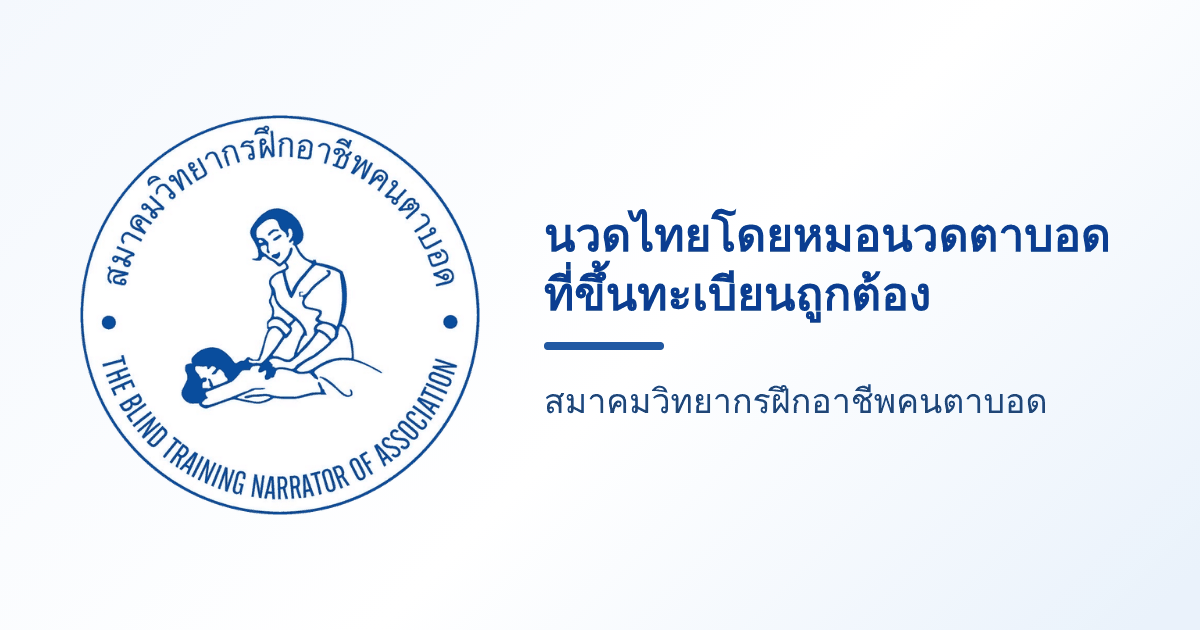
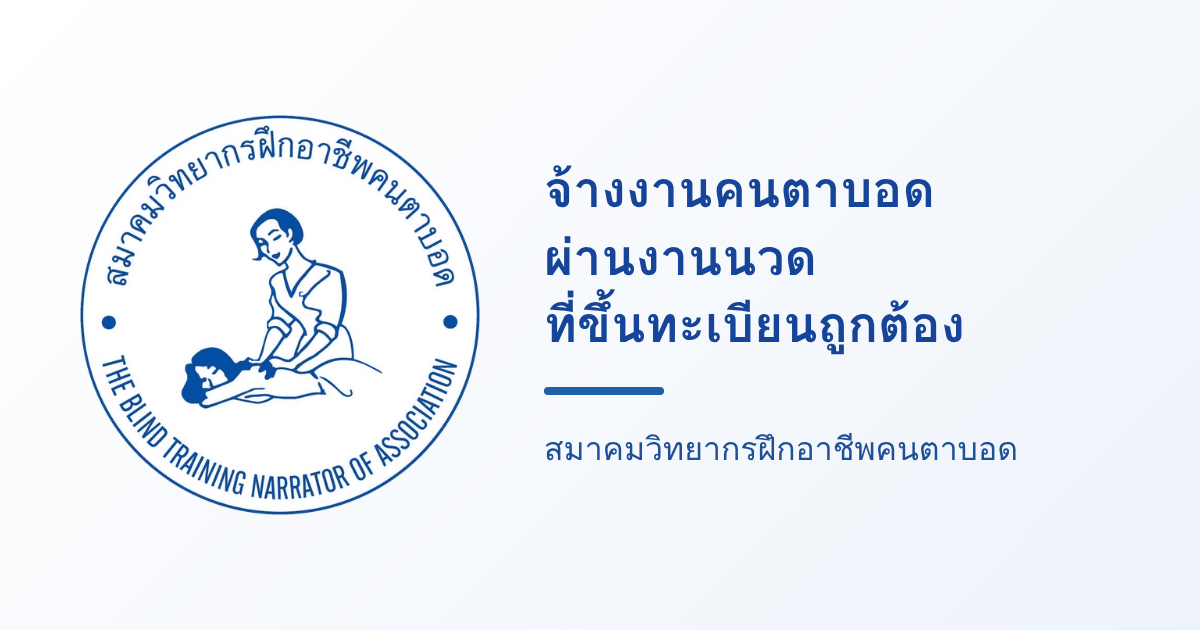
เว็บประชาสัมพันธ์: ข้อความสำรอง/รูปแชร์ตามแนวจ้างงาน, ผู้เขียนบทความสำหรับ Google, ลบโค้ดที่ไม่ใช้
- index.html: ชื่อหน้า/คำอธิบาย/og สำรองตรงกับหน้าแรก, คำใต้โลโก้ "จ้างงานคนตาบอดผ่านงานนวด"
- og-share.png ใหม่ (จ้างงานคนตาบอดผ่านงานนวด ที่ขึ้นทะเบียนถูกต้อง)
- /company/: ลบบรรทัดหมอนวดประจำลา
- Article/NewsArticle มี author = สมาคม
- ลบ CSS .note, imgUrl ซ้ำใน meta.js, ค่าส่งออกที่ไม่ใช้ใน views.js
- t_site_fn.js เพิ่ม 5 ข้อ

Claude-Session: https://claude.ai/code/session_015ijBJwPFPXqfdZhSeFH3Df

Changed region(s): [[0.4317, 0.2714, 0.925, 0.573], [0.4317, 0.6032, 0.8633, 0.6635], [0.4317, 0.6937, 0.8633, 0.754]]

diff --git a/tests/t_site_fn.js b/tests/t_site_fn.js
@@ -41,10 +41,14 @@ let L=ld(h);ok('home: Organization data = association site bna.or.th (sameAs thi
 ok('home: nav marks หน้าแรก',h.includes('data-k="home" aria-current="page">'));
 ok('footer: contact filled in order phone, email, hours',/<p id="cPhone">โทร <a href="tel:0989983654">098-998-3654<\/a><\/p>\s*<p id="cEmail">อีเมล <a href="mailto:info@example.org">info@example.org<\/a><\/p>\s*<p id="cHours">จันทร์ - ศุกร์ 09:00 - 17:00 น.<\/p>/.test(h));
 ok('footer: copyright with Thai year',h.includes('<p class="copy" id="copy">© '+(new Date().getUTCFullYear()+543)+' สมาคมวิทยากรฝึกอาชีพคนตาบอด สงวนลิขสิทธิ์</p>'));
+ok('fallback head in index.html matches home (title, og:title, description) and share image alt',(()=>{const raw=fs.readFileSync(path.join(__dirname,'..','site','index.html'),'utf8');const t='จ้างงานคนตาบอด มาตรา 33, 35 และบริการนวดโดยหมอนวดตาบอด | สมาคมวิทยากรฝึกอาชีพคนตาบอด';return titleOf(raw)===t&&raw.includes('<meta property="og:title" content="'+t+'">')&&raw.includes('<meta name="description" content="จ้างหมอนวดผู้พิการทางการเห็น')&&raw.includes('<meta property="og:description" content="จ้างหมอนวดผู้พิการทางการเห็น')&&raw.includes('จ้างงานคนตาบอดผ่านงานนวด ที่ขึ้นทะเบียนถูกต้อง">')&&!raw.includes('ข่าวสารและบทความ"')})());
+ok('og-share.png is 1200x630 PNG',(()=>{const b=fs.readFileSync(path.join(__dirname,'..','site','og-share.png'));return b.readUInt32BE(16)===1200&&b.readUInt32BE(20)===630})());
+ok('header subtitle: จ้างงานคนตาบอดผ่านงานนวด',h.includes('<small>จ้างงานคนตาบอดผ่านงานนวด</small>'));
 ok('page script still there',h.includes('function start()')&&h.includes('<script src="/shared/views.js"></script>'));
 
 // หน้าสำหรับบริษัท
 ({r,h}=await get('/company/'));
+ok('company: regular card has no "หมอนวดประจำลา" line',!view(h).includes('หมอนวดประจำลา'));
 ok('company: law content in page without script',view(h).includes('<h1>สำหรับบริษัทและหน่วยงาน</h1>')&&view(h).includes('มาตรา 35: ให้สิทธิแทนการจ้าง')&&view(h).includes('123,005')&&h.includes('data-ssr="/company/"'));
 ok('company: own title, description with price, canonical',titleOf(h)==='นวดออฟฟิศซินโดรมให้พนักงาน และจ้างงานคนพิการ มาตรา 33, 35 | สมาคมวิทยากรฝึกอาชีพคนตาบอด'&&h.includes('<meta name="description" content="จ้างหมอนวดตาบอดที่ขึ้นทะเบียนถูกต้องไปนวดออฟฟิศซินโดรมให้พนักงานที่บริษัท 400 บาท ต่อหมอนวด 1 คน ต่อชั่วโมง (กรุงเทพฯ)')&&h.includes('<meta property="og:title" content="นวดออฟฟิศซินโดรมให้พนักงาน')&&h.includes('<link rel="canonical" href="'+B+'/company/">')&&h.includes('data-k="company" aria-current="page">'));
 ok('company: price, phone links and works in page without script',view(h).includes('<b class="js-rate">400 บาท</b> <span class="js-rate-unit">ต่อหมอนวด 1 คน ต่อชั่วโมง</span>')&&(view(h).match(/<a class="btn ghost js-tel" href="tel:0989983654">โทรสอบถาม<\/a>/g)||[]).length===2&&view(h).includes('<a class="btn js-tel" href="tel:0989983654">โทร&nbsp;<span class="js-phone">098-998-3654</span></a>')&&view(h).includes('<a class="btn ghost js-mail" href="mailto:info@example.org">ส่งอีเมล</a>')&&!view(h).includes('<table')&&view(h).includes('<details class="more7">')&&view(h).includes('id="worksSec"')&&view(h).includes('href="/news/9"')&&!view(h).includes('data-pending'));
@@ -68,6 +72,7 @@ ok('post: title/og escaped, description from summary',titleOf(h)==='อบรม
 ok('post: canonical, og:image = cover with alt, size tags removed',h.includes('<link rel="canonical" href="'+B+'/news/7">')&&h.includes('<meta property="og:image" content="https://dwdnmfwepydyweeqfdxn.supabase.co/storage/v1/object/public/place-images/00000000-0000-0000-0000-000000000000/site-x.jpg">')&&h.includes('<meta property="og:image:alt" content="ภาพการอบรม">')&&!h.includes('og:image:width'));
 L=ld(h);const na=L.find(x=>x.j['@type']==='NewsArticle');
 ok('post: NewsArticle data (dates, image) + Organization, no raw "<"',!!na&&na.j.datePublished==='2026-11-17'&&na.j.dateModified==='2026-11-18T01:00:00Z'&&na.j.image[0].endsWith('site-x.jpg')&&na.j.headline.includes('<รุ่น 2>')&&!na.raw.includes('<')&&L.some(x=>x.j['@type']==='Organization'));
+ok('post: author = association (Organization, url bna.or.th)',!!na&&na.j.author&&na.j.author['@type']==='Organization'&&na.j.author.name==='สมาคมวิทยากรฝึกอาชีพคนตาบอด'&&na.j.author.url==='https://bna.or.th/');
 ok('post: prev/next of same type in page (news 7: no other news -> nav empty but present)',view(h).includes('<nav class="pn" id="pn" aria-label="เรื่องอื่นในข่าวและกิจกรรม" data-no="7" data-day="2026-11-17" data-kind="news"></nav>')&&view(h).includes('<a href="/" data-nav>กลับหน้าแรก</a>')&&view(h).includes('<nav class="crumb" aria-label="ตำแหน่งหน้า"><a href="/" data-nav>หน้าแรก</a>'));
 ok('post: share links with full url',view(h).includes('https://social-plugins.line.me/lineit/share?url='+encodeURIComponent(B+'/news/7')));
 ({h}=await get('/news/8'));ok('post without cover: default share image (full url), Article type, description = title',h.includes('<meta property="og:image" content="'+B+'/og-share.png">')&&ld(h).some(x=>x.j['@type']==='Article')&&h.includes('<meta name="description" content="ประโยชน์ของการนวด">'));

diff --git a/site/index.html b/site/index.html
@@ -3,14 +3,15 @@
 <head>
 <meta charset="utf-8">
 <meta name="viewport" content="width=device-width, initial-scale=1, viewport-fit=cover">
-<title>นวดไทยโดยหมอนวดตาบอดที่ขึ้นทะเบียนถูกต้อง | สมาคมวิทยากรฝึกอาชีพคนตาบอด</title>
-<meta name="description" content="ข่าวสาร กิจกรรม และบทความจากสมาคมวิทยากรฝึกอาชีพคนตาบอด นวดโดยหมอนวดตาบอดที่ขึ้นทะเบียนกับกรมสนับสนุนบริการสุขภาพ จองนวดออนไลน์ สมัครเปิดร้าน และสมัครเป็นหมอนวด">
+<!-- ข้อความสำรอง (ใช้เมื่อ Cloudflare ใส่ข้อความของหน้าให้ไม่ได้) ให้ตรงกับหน้าแรกใน meta() ของ shared/views.js -->
+<title>จ้างงานคนตาบอด มาตรา 33, 35 และบริการนวดโดยหมอนวดตาบอด | สมาคมวิทยากรฝึกอาชีพคนตาบอด</title>
+<meta name="description" content="จ้างหมอนวดผู้พิการทางการเห็นที่ขึ้นทะเบียนถูกต้องไปนวดให้พนักงานแบบครั้งคราว หรือจ้างประจำตามมาตรา 33, 35 ผลงานที่ไปให้บริการ ข่าวสาร สมัครเป็นหมอนวด และจองนวดออนไลน์ จากสมาคมวิทยากรฝึกอาชีพคนตาบอด">
 <meta property="og:type" content="website"><meta property="og:locale" content="th_TH"><meta property="og:site_name" content="สมาคมวิทยากรฝึกอาชีพคนตาบอด">
-<meta property="og:title" content="สมาคมวิทยากรฝึกอาชีพคนตาบอด ข่าวสารและบทความ">
-<meta property="og:description" content="นวดโดยหมอนวดตาบอดที่ขึ้นทะเบียนถูกต้อง ติดตามข่าวสาร กิจกรรม และบทความดีๆ เรื่องการนวด">
+<meta property="og:title" content="จ้างงานคนตาบอด มาตรา 33, 35 และบริการนวดโดยหมอนวดตาบอด | สมาคมวิทยากรฝึกอาชีพคนตาบอด">
+<meta property="og:description" content="จ้างหมอนวดผู้พิการทางการเห็นที่ขึ้นทะเบียนถูกต้องไปนวดให้พนักงานแบบครั้งคราว หรือจ้างประจำตามมาตรา 33, 35 ผลงานที่ไปให้บริการ ข่าวสาร สมัครเป็นหมอนวด และจองนวดออนไลน์ จากสมาคมวิทยากรฝึกอาชีพคนตาบอด">
 <meta property="og:image" content="/og-share.png">
 <meta property="og:image:width" content="1200"><meta property="og:image:height" content="630">
-<meta property="og:image:alt" content="โลโก้สมาคมวิทยากรฝึกอาชีพคนตาบอด">
+<meta property="og:image:alt" content="โลโก้สมาคมวิทยากรฝึกอาชีพคนตาบอด พร้อมข้อความ จ้างงานคนตาบอดผ่านงานนวด ที่ขึ้นทะเบียนถูกต้อง">
 <meta name="twitter:card" content="summary_large_image">
 <link rel="icon" href="/icon-192.png">
 <link rel="apple-touch-icon" href="/icon-192.png">
@@ -86,7 +87,6 @@ article.post section{margin-top:28px}
 article.post h3{font-size:20px;margin:1.2em 0 .4em}
 article.post ol,article.post ul{padding-left:1.4em}
 article.post li{margin:0 0 6px}
-.note{color:var(--mute);font-size:15px;margin-top:20px}
 section[id],.offers{scroll-margin-top:96px}
 .offers{margin:20px 0 8px;align-items:stretch}
 .offer{display:flex;flex-direction:column;border-width:2px}
@@ -136,7 +136,7 @@ footer .copy{margin-top:14px;padding-top:12px;border-top:1px solid var(--line);f
 <a class="skip" href="#main">ข้ามไปเนื้อหาหลัก</a>
 <header class="top">
  <div class="wrap bar">
-  <a class="brand" href="/" data-nav><img src="/icon-logo-192.png" alt="" width="52" height="52"><span>สมาคมวิทยากรฝึกอาชีพคนตาบอด<small>นวดโดยหมอนวดตาบอด</small></span></a>
+  <a class="brand" href="/" data-nav><img src="/icon-logo-192.png" alt="" width="52" height="52"><span>สมาคมวิทยากรฝึกอาชีพคนตาบอด<small>จ้างงานคนตาบอดผ่านงานนวด</small></span></a>
   <nav class="main" aria-label="เมนูหลัก"><ul>
    <li><a href="/" data-nav data-k="home">หน้าแรก</a></li>
    <li><a href="/news/" data-nav data-k="news">ข่าวและบทความ</a></li>

diff --git a/site/shared/views.js b/site/shared/views.js
@@ -183,7 +183,7 @@
       '<div class="btns"><a class="btn" href="' + APP.orgreq + '">ขอบริการสำหรับหน่วยงาน</a>' + call + '</div><p class="sub"><a href="#steps">ดูขั้นตอน</a></p></div>' +
       '<div class="box offer"><span class="badge regular">ประจำ</span><h2>จ้างประจำตามมาตรา 33 หรือ 35</h2>' +
       '<p class="tagline">ใช้แทนการส่งเงินเข้ากองทุนตามมาตรา 34</p>' +
-      '<ul><li>หมอนวดประจำที่บริษัทตามวันและเวลาที่ตกลง</li><li>นับเป็นการจ้างงานคนพิการตามกฎหมาย</li><li>หมอนวดประจำลา สมาคมจัดหมอนวดแทนให้</li></ul>' +
+      '<ul><li>หมอนวดประจำที่บริษัทตามวันและเวลาที่ตกลง</li><li>นับเป็นการจ้างงานคนพิการตามกฎหมาย</li></ul>' +
       '<div class="btns"><a class="btn" href="' + APP.company + '">ลงทะเบียนบริษัท</a>' + call + '</div><p class="sub"><a href="#law">ดูข้อกฎหมาย</a></p></div>' +
       '</div>' +
       works +
@@ -218,8 +218,8 @@
   function copyText(year) { return "© " + year + " " + SITE_NAME + " สงวนลิขสิทธิ์"; }
 
   G.SV = {
-    SB: SB, APP: APP, ORG_SITE: ORG_SITE, KIND: KIND, SITE_NAME: SITE_NAME, LAW: LAW, PAGE: PAGE, POST_GONE: POST_GONE, LOADING: LOADING,
-    esc: esc, imgUrl: imgUrl, thDate: thDate, renderBody: renderBody, card: card, errBox: errBox, listQ: listQ, postQ: postQ,
+    SB: SB, ORG_SITE: ORG_SITE, SITE_NAME: SITE_NAME, PAGE: PAGE, POST_GONE: POST_GONE, LOADING: LOADING,
+    esc: esc, imgUrl: imgUrl, card: card, errBox: errBox, listQ: listQ, postQ: postQ,
     parse: parse, canonPath: canonPath, meta: meta, homeHTML: homeHTML, latestHTML: latestHTML, listHTML: listHTML, listBody: listBody, moreBtn: moreBtn,
     postHTML: postHTML, adjQ: adjQ, adjHTML: adjHTML, notFoundHTML: notFoundHTML, companyHTML: companyHTML, faqLD: faqLD, baht: baht, telHref: telHref, contactParts: contactParts, copyText: copyText
   };

diff --git a/site/functions/_middleware.js b/site/functions/_middleware.js
@@ -3,7 +3,7 @@
 // ให้ Google / Bing / LINE / Facebook เห็นเนื้อหาครบโดยไม่ต้องรันสคริปต์ หน้าเว็บในเบราว์เซอร์ใช้เนื้อหาที่ใส่มาเลย (ดู start() ใน index.html)
 // เนื้อหาเดียวกับหน้าเว็บ มาจาก ../shared/views.js  ไฟล์อื่น (รูป ไอคอน .js) ส่งต่อไปตามปกติ
 import '../shared/views.js';
-import { sbGet, sbRpc, imgUrl, withMeta } from '../shared/meta.js';
+import { sbGet, sbRpc, withMeta } from '../shared/meta.js';
 
 const V = globalThis.SV;
 const GOOGLE_VERIFY = 'google388ba24f989c9ab1.html';
@@ -60,11 +60,12 @@ export async function onRequest(ctx) {
   if (r.name === 'company') jsonld.push(V.faqLD(info));
   let image = null;
   if (art) {
-    image = imgUrl(art.cover_path);
+    image = V.imgUrl(art.cover_path);
     jsonld.push({
       '@context': 'https://schema.org', '@type': art.kind === 'news' ? 'NewsArticle' : 'Article',
       headline: String(art.title).slice(0, 110), description: m.desc, datePublished: art.day, dateModified: art.updated_at || art.day,
       image: image ? [image] : undefined, mainEntityOfPage: url,
+      author: { '@type': 'Organization', name: V.SITE_NAME, url: V.ORG_SITE },
       publisher: { '@type': 'Organization', name: V.SITE_NAME, logo: { '@type': 'ImageObject', url: u.origin + '/icon-512.png' } }
     });
   }

diff --git a/site/shared/meta.js b/site/shared/meta.js
@@ -18,11 +18,6 @@ export function esc(x) {
   return String(x == null ? '' : x).replace(/[&<>"']/g, c => ({ '&': '&amp;', '<': '&lt;', '>': '&gt;', '"': '&quot;', "'": '&#39;' }[c]));
 }
 
-export function imgUrl(p) {
-  if (!p) return null;
-  if (/^https?:\/\//.test(p)) return p;
-  return SB.url + '/storage/v1/object/public/' + (/^place-images\//.test(p) ? p : 'place-images/' + p);
-}
 
 // แทนค่าแท็ก meta ในหน้า index.html ให้ตรงกับหน้านั้น ให้ Google / LINE / Facebook เห็นชื่อหน้า คำอธิบาย และรูปที่ถูกต้อง
 // (โปรแกรมพวกนี้มักไม่รันสคริปต์ในหน้าเว็บ) m: { title, desc, url, ogType, image, imageAlt, jsonld: [..], noindex }

diff --git a/CHANGELOG.md b/CHANGELOG.md
@@ -3,6 +3,15 @@
 สรุปจากประวัติ commit ของ repository นี้ (เว็บ 4 ตัว: ผู้ใช้ `customer/`, ร้านนวด `shop/`, พนักงาน `staff/`, แอดมิน `admin/`)
 รายละเอียดเต็มดูที่ `git log` ตัวเลขในวงเล็บคือรหัส commit
 
+## 2026-11-18 (เว็บประชาสัมพันธ์: ข้อความสำรอง/รูปแชร์ตามแนวจ้างงาน, ผู้เขียนบทความสำหรับ Google, ลบโค้ดที่ไม่ใช้)
+- ผู้ใช้อนุมัติแผน (เลือกคำใต้โลโก้แบบ ก, ลบบรรทัดหมอนวดประจำลา)
+- `site/index.html`: ชื่อหน้า คำอธิบาย og:title og:description สำรอง ให้ตรงกับหน้าแรก (เดิมยังเป็น "นวดไทยโดยหมอนวดตาบอด... ข่าวสารและบทความ" เห็นเมื่อ Cloudflare ใส่ข้อความให้ไม่ได้), คำใต้โลโก้หัวเว็บ "จ้างงานคนตาบอดผ่านงานนวด", คำบรรยายรูปแชร์ใหม่
+- `site/og-share.png` ทำใหม่ 1200x630: โลโก้ + "จ้างงานคนตาบอดผ่านงานนวด ที่ขึ้นทะเบียนถูกต้อง" + ชื่อสมาคม (LINE อาจแสดงรูปเก่าที่เก็บไว้อีกสักพัก)
+- หน้า `/company/` การ์ด "จ้างประจำ": ลบ "หมอนวดประจำลา สมาคมจัดหมอนวดแทนให้"
+- ข้อมูลโครงสร้างบทความ/ข่าว (Article/NewsArticle) เพิ่มผู้เขียน = สมาคม (Organization, url bna.or.th) ตามที่ Google แนะนำ
+- ลบโค้ดที่ไม่ใช้: CSS `.note`, `imgUrl` ซ้ำใน `site/shared/meta.js` (middleware ใช้ของ `views.js`), ค่าที่ส่งออกจาก `views.js` แต่ไม่มีใครเรียก (`APP`, `KIND`, `LAW`, `thDate`, `renderBody` ยังใช้ภายในไฟล์ตามเดิม), README ปรับให้ตรงปัจจุบัน
+- ข้อสอบ `t_site_fn.js` เพิ่ม 5 ข้อ (ข้อความสำรอง, คำใต้โลโก้, ขนาดรูปแชร์, ผู้เขียน, ไม่มีบรรทัดหมอนวดประจำลา)
+
 ## 2026-11-18 (เว็บประชาสัมพันธ์: หน้าแรกเน้นการจ้างงานคนตาบอด + เชื่อมกับ bna.or.th)
 - ผู้ใช้บอกว่าเว็บนี้เน้นการจ้างงานคนตาบอด ข้อมูลสมาคมอยู่ที่ https://bna.or.th/ อยู่แล้ว ยังให้มีการจองนวด ตรวจแล้วว่า bna.or.th เน้นบริการนวดนอกสถานที่สำหรับบริษัทและลิงก์ไปแอปจอง จึงแบ่งหน้าที่ ไม่ใช้ชื่อหน้า/ข้อความซ้ำกับ bna.or.th
 - หน้าแรก: หัวข้อ "จ้างงานคนตาบอดผ่านงานนวด ที่ขึ้นทะเบียนถูกต้อง" ปุ่มหลัก "สำหรับบริษัทและหน่วยงาน" แล้ว "จองนวดออนไลน์", "อ่านข่าวและบทความ" เรียง: บริษัทและหน่วยงาน -> หน่วยงานที่เราเคยไปให้บริการ (ใหม่บนหน้าแรก ซ่อนเมื่อไม่มี) -> ข่าวและบทความล่าสุด (ไม่รวมผลงานบริการ ใช้ `kind=neq.work`) -> ร่วมงานกับเรา (สมัครเป็นหมอนวดขึ้นก่อน) -> จองนวด 3 ขั้นตอน

diff --git a/site/README.md b/site/README.md
@@ -7,7 +7,7 @@
 |---|---|
 | `/company/` | สำหรับบริษัท: จ้างหมอนวดไปนวดที่บริษัท และกฎหมายจ้างงานคนพิการ มาตรา 33/34/35 |
 | `/` | หน้าแรก: แนะนำ ข่าวล่าสุด 6 เรื่อง ปุ่มจองนวด สมัครเปิดร้าน สมัครเป็นหมอนวด |
-| `/news/` | รวมข่าวและบทความ (กรองได้ `?k=news` / `?k=article`) |
+| `/news/` | รวมข่าวและบทความ (กรองได้ `?k=news` / `?k=work` / `?k=article`) |
 | `/news/<เลข>` | อ่านเรื่องเต็ม มีปุ่มแชร์ LINE / Facebook / คัดลอกลิงก์ |
 | `/sitemap.xml`, `/robots.txt` | สำหรับ Google (สร้างอัตโนมัติ) |
 
@@ -25,7 +25,8 @@
 - `functions/_middleware.js` Cloudflare ใส่เนื้อหา ชื่อหน้า คำอธิบาย รูปแชร์ ข้อมูลโครงสร้างสำหรับ Google และกล่องติดต่อลงหน้าเว็บตั้งแต่ตอนส่ง ให้ Google / Bing / LINE / Facebook เห็นโดยไม่ต้องรันสคริปต์ หน้าที่ไม่มีตอบ 404
 - `functions/sitemap.xml.js`, `functions/robots.txt.js` แผนผังเว็บและ robots.txt
 - `shared/meta.js` โค้ดที่ functions ใช้ร่วมกัน
-- `_headers` การเก็บแคชและความปลอดภัย, รูปไอคอนและ `og-share.png` (คัดลอกจาก `customer/`)
+- `_headers` การเก็บแคชและความปลอดภัย
+- รูปไอคอน (โลโก้สมาคม) และ `og-share.png` รูปแชร์ 1200x630 (โลโก้ + "จ้างงานคนตาบอดผ่านงานนวด ที่ขึ้นทะเบียนถูกต้อง" + ชื่อสมาคม) ถ้าเปลี่ยนรูป แก้คำบรรยาย `og:image:alt` ใน `index.html` ด้วย
 
 ## การเขียนเนื้อหา (ในแอปแอดมิน)
 
